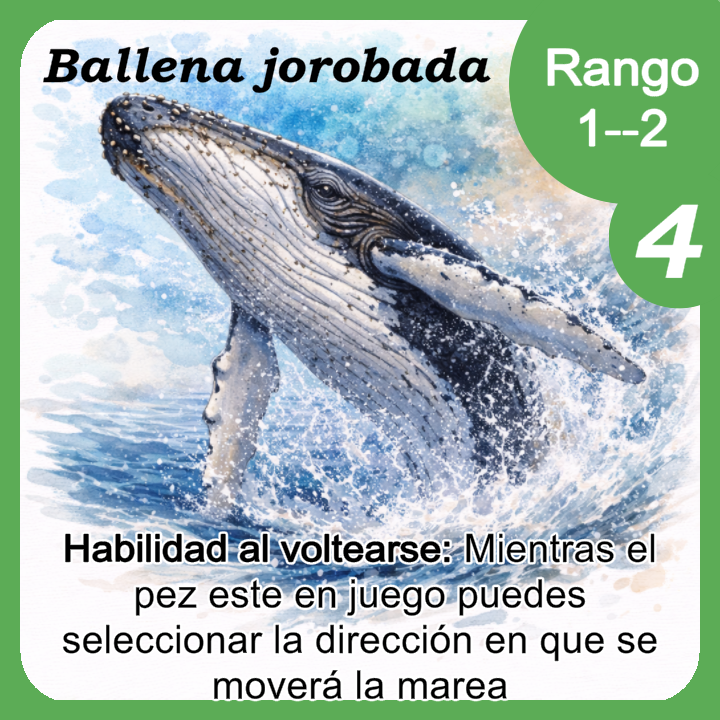
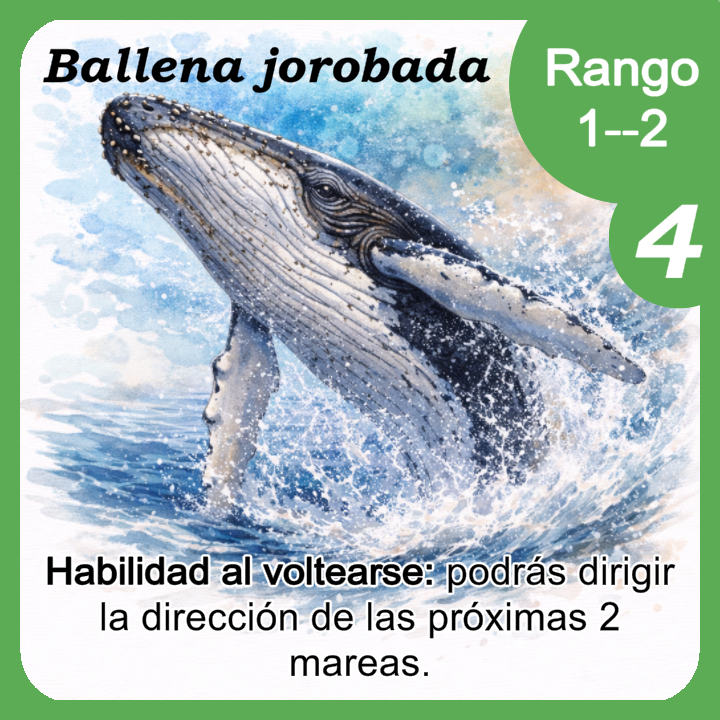
1.4.9. ballena jorobada

Changed region(s): [[0.0611, 0.7333, 0.9472, 0.9778]]

diff --git a/app/src/main/java/com/daille/zonadepescajava_app/model/GameState.java b/app/src/main/java/com/daille/zonadepescajava_app/model/GameState.java
@@ -4602,8 +4602,8 @@ public class GameState {
                 result = startEsturionRoll(slotIndex);
                 break;
             case BALLENA_JOROBADA:
-                humpbackTidesRemaining = 3;
-                result = "Ballena jorobada: podrás dirigir la dirección de las próximas 3 mareas.";
+                humpbackTidesRemaining = 2;
+                result = "Ballena jorobada: podrás dirigir la dirección de las próximas 2 mareas.";
                 break;
             case MERO_GIGANTE:
                 result = flipAdjacentCardsDown(slotIndex);
